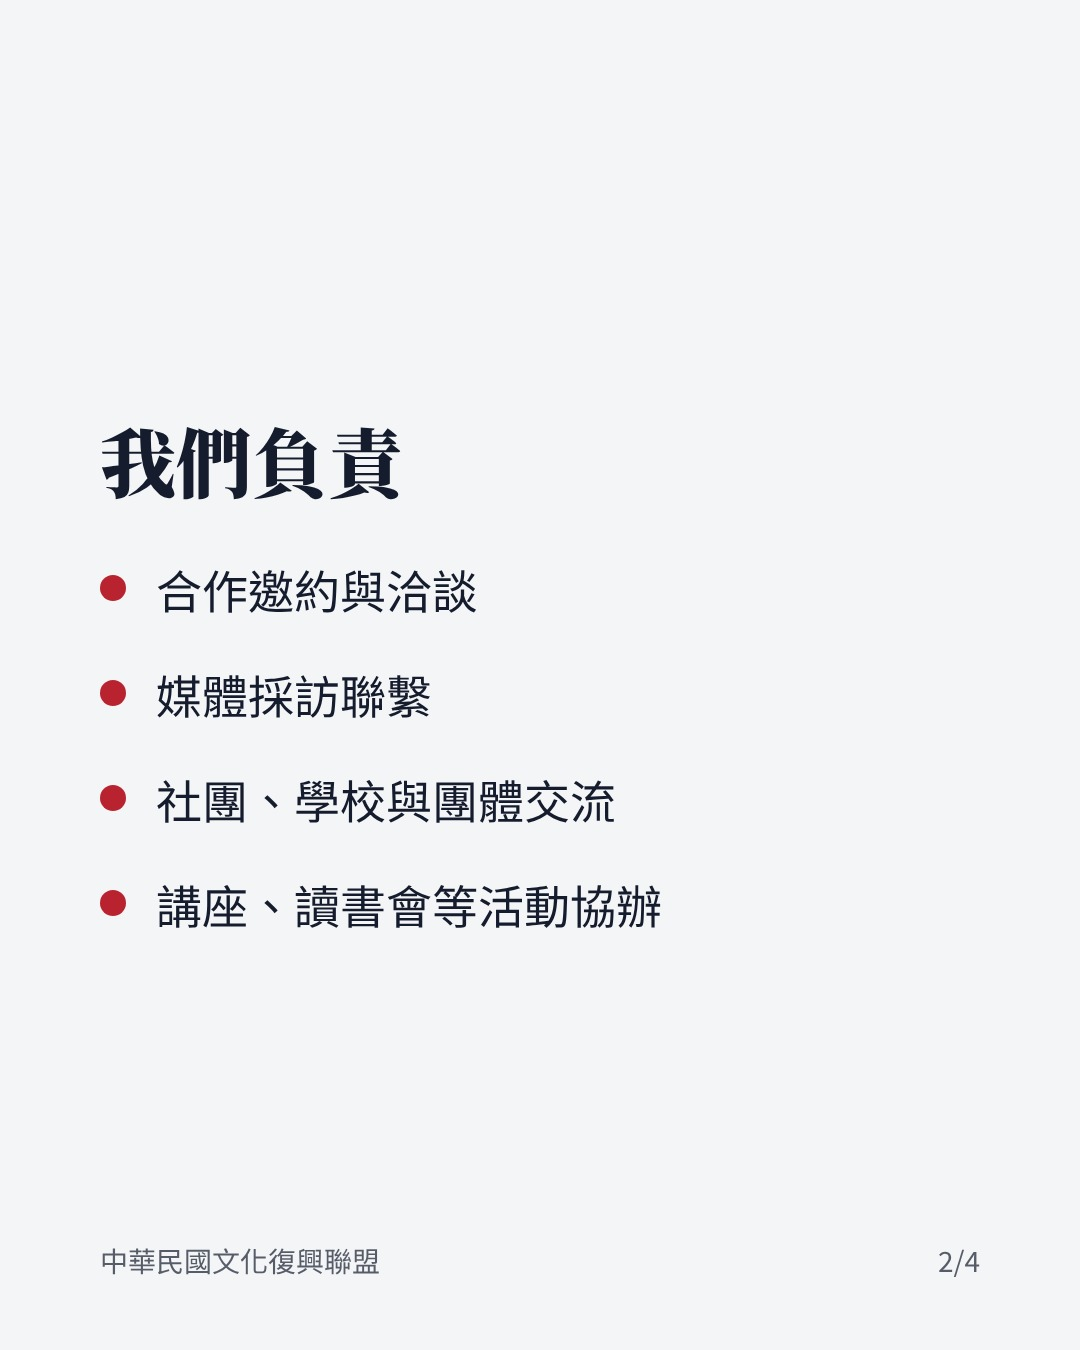
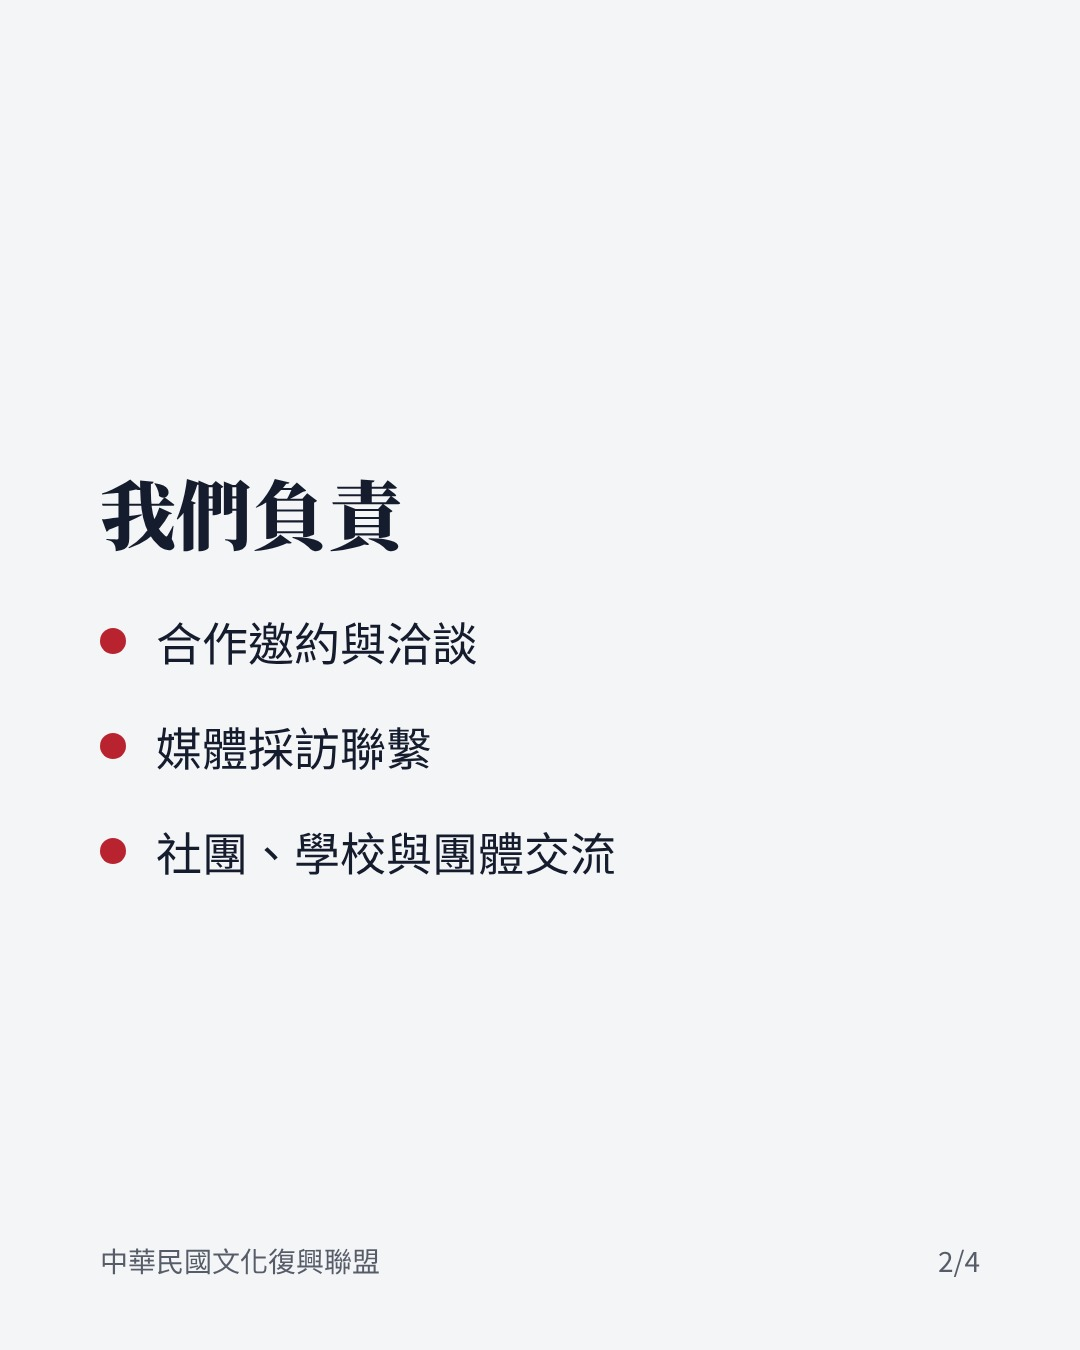
公關部貼文依使用者修改

Changed region(s): [[0.0917, 0.3111, 0.6111, 0.6844]]

diff --git a/content.py b/content.py
@@ -279,10 +279,10 @@ ARTICLES.append({
     "web": "",
     "ig_slides": [
         {"kind": "cover", "kicker": "中華民國文化復興聯盟", "head": "公關部\n正式成立", "sub": "聯盟對外合作的窗口"},
-        {"kind": "list", "head": "我們負責", "items": ["合作邀約與洽談", "媒體採訪聯繫", "社團、學校與團體交流", "講座、讀書會等活動協辦"]},
+        {"kind": "list", "head": "我們負責", "items": ["合作邀約與洽談", "媒體採訪聯繫", "社團、學校與團體交流"]},
         {"kind": "list", "head": "歡迎這樣的合作", "items": ["社團、學生會：一起辦讀書會或講座", "學者、作者：投稿、受訪、協助審訂史料", "媒體：採訪與報導", "創作者：共同製作歷史與文化內容"]},
         {"kind": "text", "head": "聯絡公關部", "body": "來信：rocculture2026@gmail.com\n或直接私訊這個帳號\n\n請簡單說明\n你是誰、想怎麼合作，\n我們會盡快回覆。\n\n本聯盟為民間自發團體，\n與任何政府機關、政黨無隸屬。"},
     ],
-    "ig_caption": "中華民國文化復興聯盟公關部，今天正式成立。\n\n聯盟成立以來，收到許多個人與團體來訊洽談合作，讓我們十分感謝。為了更好地回應每一份邀約，我們成立公關部，作為聯盟對外合作的窗口。\n\n我們負責：\n・合作邀約與洽談\n・媒體採訪聯繫\n・社團、學校與團體交流\n・講座、讀書會等活動協辦\n\n無論你是社團、學者、作者、媒體或創作者，只要認同中華民國、願意一起推廣歷史與文化，都歡迎來信 rocculture2026@gmail.com 或直接私訊我們。\n\n聯盟的長文與宣言，請看本部帳號 @roc_culture_revival。\n\n（中華民國文化復興聯盟公關部）\n\n#中華民國 #三民主義 #中華文化 #合作邀約 #文化復興",
-    "threads": "中華民國文化復興聯盟公關部，今天正式成立。\n\n聯盟成立以來，收到許多個人與團體來訊洽談合作，讓我們十分感謝。公關部將作為聯盟對外合作的窗口：合作邀約、媒體採訪、社團與學校交流、講座與讀書會協辦。\n\n認同中華民國、願意一起推廣歷史與文化的朋友，歡迎來信 rocculture2026@gmail.com 或直接私訊。",
+    "ig_caption": "中華民國文化復興聯盟公關部，今天正式成立。\n\n聯盟成立以來，收到許多個人與團體來訊洽談合作，讓我們十分感謝。為了更好地回應每一份邀約，我們成立公關部，作為聯盟對外合作的窗口。\n\n我們負責：\n・合作邀約與洽談\n・媒體採訪聯繫\n・社團、學校與團體交流\n\n無論你是社團、學者、作者、媒體或創作者，只要認同中華民國、願意一起推廣歷史與文化，都歡迎來信 rocculture2026@gmail.com 或直接私訊我們。\n\n聯盟的成立宣言與文章，請看本部帳號 @roc_culture_revival。\n\n（中華民國文化復興聯盟公關部）\n\n#中華民國 #三民主義 #中華文化 #合作邀約 #文化復興",
+    "threads": "中華民國文化復興聯盟公關部，今天正式成立。\n\n聯盟成立以來，收到許多個人與團體來訊洽談合作，讓我們十分感謝。公關部將作為聯盟對外合作的窗口：合作邀約、媒體採訪、社團與學校交流。\n\n認同中華民國、願意一起推廣歷史與文化的朋友，歡迎來信 rocculture2026@gmail.com 或直接私訊。",
 })

diff --git a/posts/05-pr-intro.md b/posts/05-pr-intro.md
@@ -10,7 +10,7 @@
 3. docs/ig/05-pr-intro-3.jpg
 4. docs/ig/05-pr-intro-4.jpg
 
-貼文說明（305 字，上限 2,200）：
+貼文說明（294 字，上限 2,200）：
 
 ```
 中華民國文化復興聯盟公關部，今天正式成立。
@@ -21,11 +21,10 @@
 ・合作邀約與洽談
 ・媒體採訪聯繫
 ・社團、學校與團體交流
-・講座、讀書會等活動協辦
 
 無論你是社團、學者、作者、媒體或創作者，只要認同中華民國、願意一起推廣歷史與文化，都歡迎來信 rocculture2026@gmail.com 或直接私訊我們。
 
-聯盟的長文與宣言，請看本部帳號 @roc_culture_revival。
+聯盟的成立宣言與文章，請看本部帳號 @roc_culture_revival。
 
 （中華民國文化復興聯盟公關部）
 
@@ -34,12 +33,12 @@
 
 ## Threads
 
-（157 字，上限 500）
+（148 字，上限 500）
 
 ```
 中華民國文化復興聯盟公關部，今天正式成立。
 
-聯盟成立以來，收到許多個人與團體來訊洽談合作，讓我們十分感謝。公關部將作為聯盟對外合作的窗口：合作邀約、媒體採訪、社團與學校交流、講座與讀書會協辦。
+聯盟成立以來，收到許多個人與團體來訊洽談合作，讓我們十分感謝。公關部將作為聯盟對外合作的窗口：合作邀約、媒體採訪、社團與學校交流。
 
 認同中華民國、願意一起推廣歷史與文化的朋友，歡迎來信 rocculture2026@gmail.com 或直接私訊。
 ```
